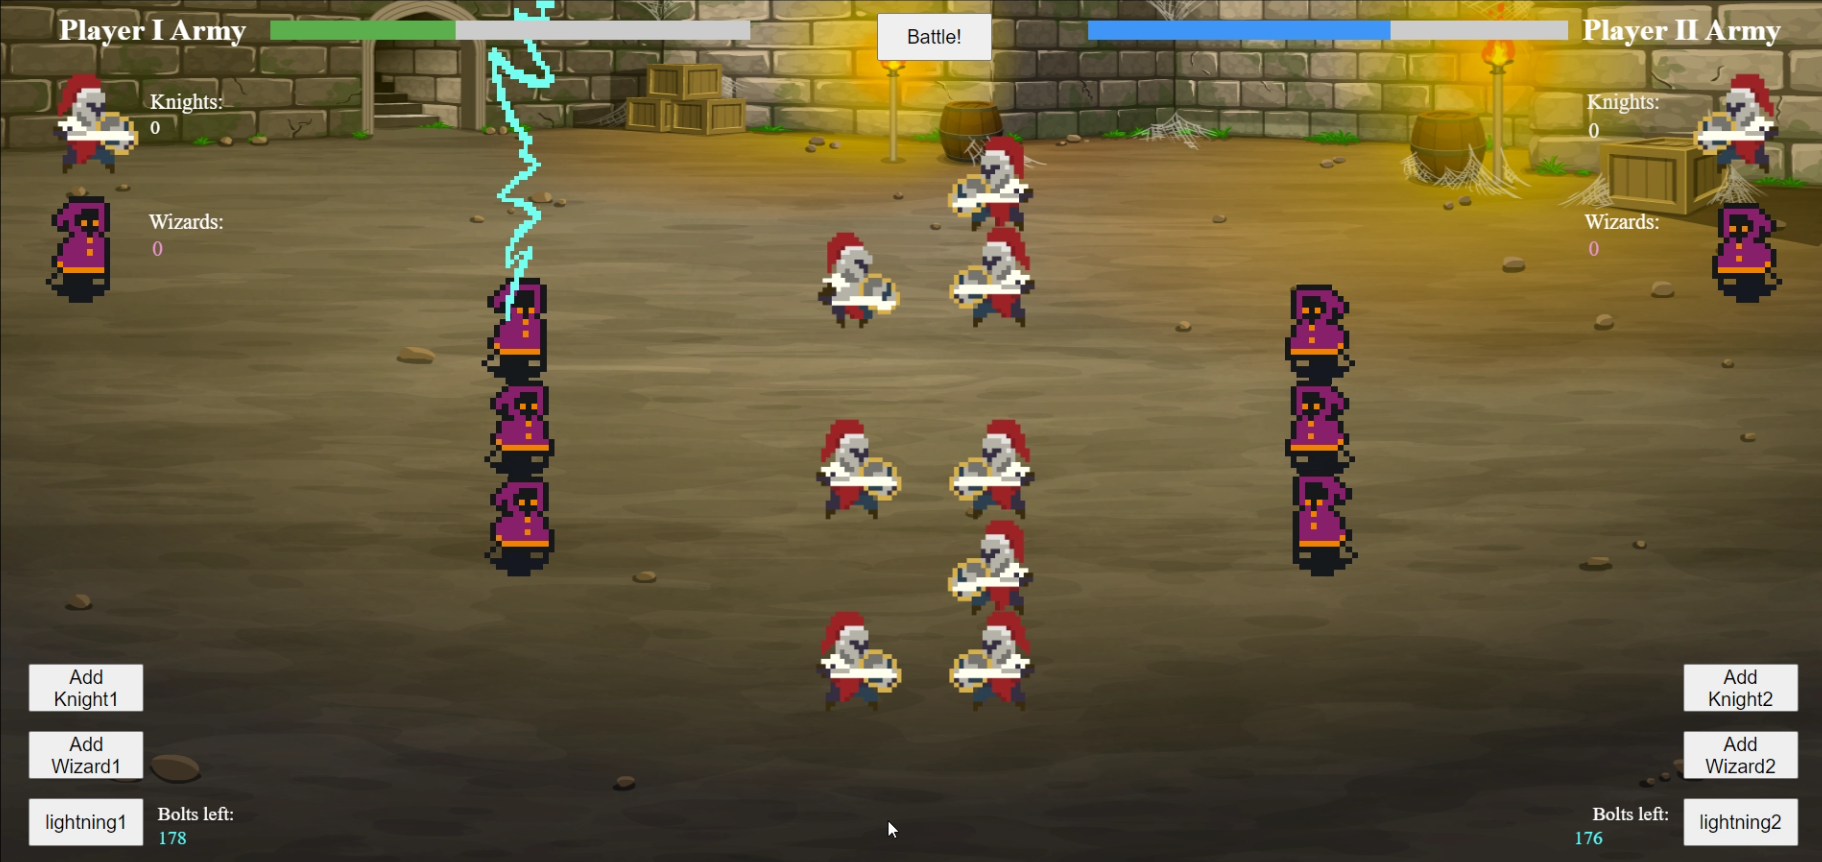
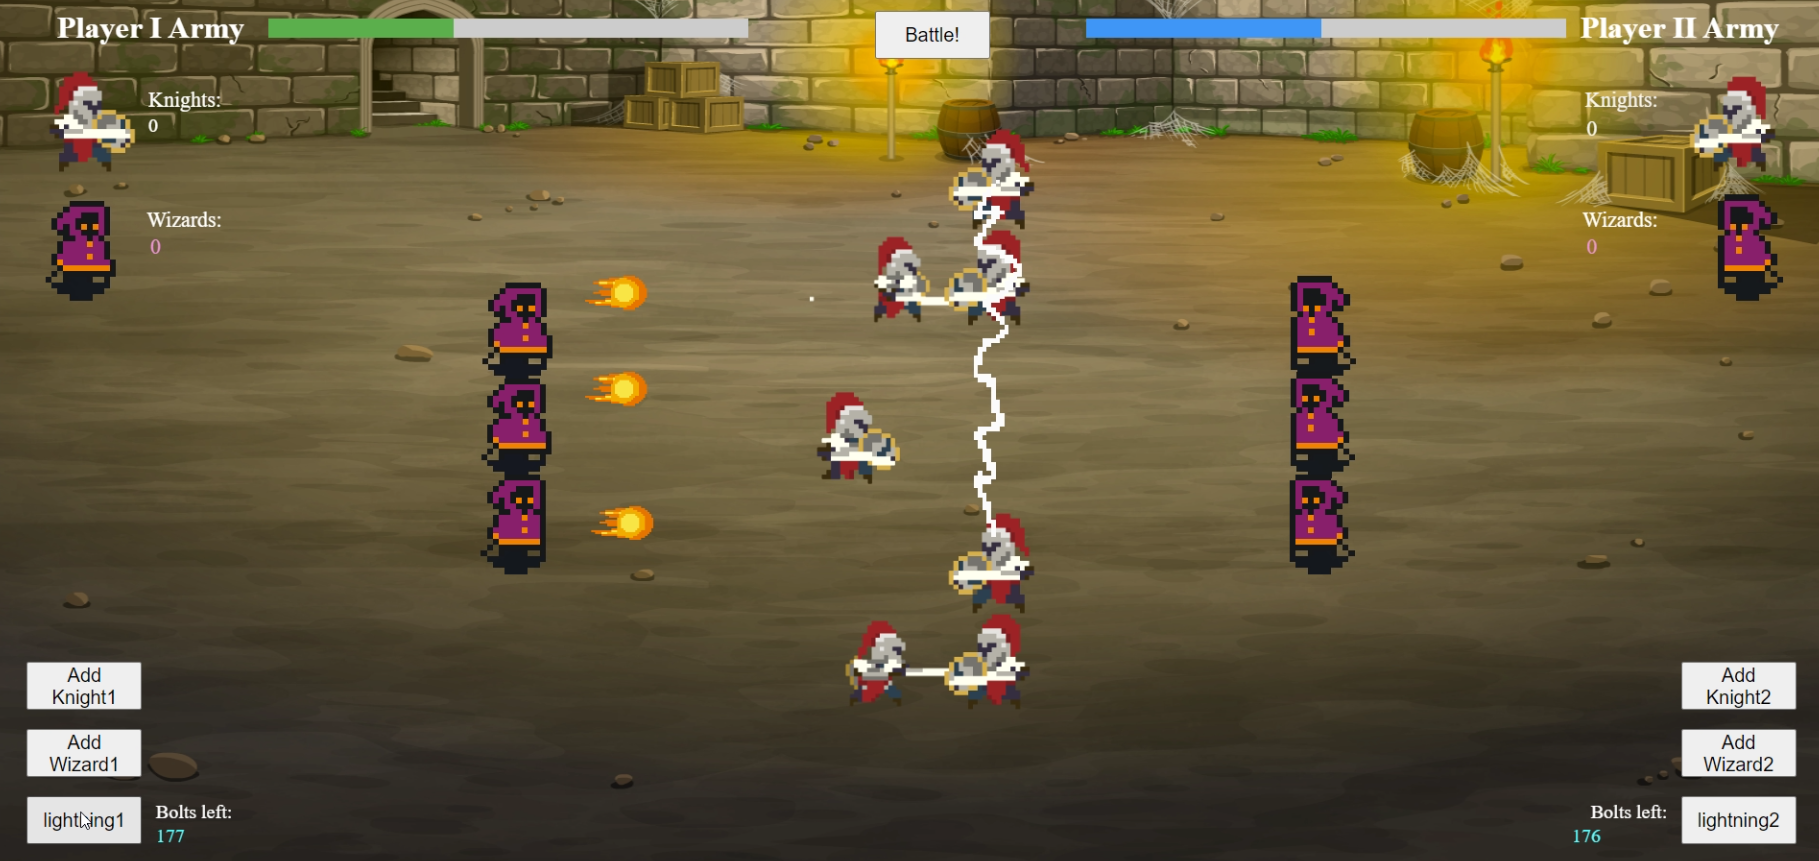
.

diff --git a/frontend/script.js b/frontend/script.js
@@ -497,8 +497,7 @@ const numOfAliveTroops = (troops) => {
 
 const isLinedUpOpponentWizard = (wizard, knights) => knights.some(knight => knight && wizard && knight.position.y === wizard.position.y + 30);
 
-const isLinedUpOpponent = (troop, array) => array.some(knight => knight && troop.position.y === knight.position.y);
-
+const isLinedUpOpponent = (troop, knights) => knights.some(knight => knight && troop.position.y === knight.position.y);
 
 const reArrangeKnights = (battlingKnightsP1, battlingKnightsP2) => {
     let idleKnightsP1 = [];
@@ -506,18 +505,20 @@ const reArrangeKnights = (battlingKnightsP1, battlingKnightsP2) => {
 
     //All idle knights of P1
     for (let i = 0; i < battlingKnightsP1.length; i++) {
-        if (battlingKnightsP1[i] && numOfAliveTroops(battlingKnightsP2) !== 0 && !isDead(battlingKnightsP1[i]) &&
-            !isLinedUpOpponent(battlingKnightsP1[i], battlingKnightsP2)) { //!battlingKnightsP2[i] 
-            idleKnightsP1.push(battlingKnightsP1[i]);
-        } else if (battlingKnightsP1[i] && !isDead(battlingKnightsP1[i]) && numOfAliveTroops(battlingKnightsP2) === 0) {
+        if (battlingKnightsP1[i] && numOfAliveTroops(battlingKnightsP2) !== 0 && !isDead(battlingKnightsP1[i])
+            && !isLinedUpOpponent(battlingKnightsP1[i], battlingKnightsP2)) {
             idleKnightsP1.push(battlingKnightsP1[i]);
         }
+
+        // else if (battlingKnightsP1[i] && !isDead(battlingKnightsP1[i]) && numOfAliveTroops(battlingKnightsP2) === 0) {
+        //     idleKnightsP1.push(battlingKnightsP1[i]);
+        // }
     }
 
     //All idle knights of P2
     for (let i = 0; i < battlingKnightsP2.length; i++) {
-        if (battlingKnightsP2[i] && !isDead(battlingKnightsP2[i]) &&
-            !isLinedUpOpponent(battlingKnightsP2[i], battlingKnightsP1)) { //!battlingKnightsP1[i] 
+        if (battlingKnightsP2[i] && !isDead(battlingKnightsP2[i])
+            && !isLinedUpOpponent(battlingKnightsP2[i], battlingKnightsP1)) { //!battlingKnightsP1[i] 
             idleKnightsP2.push(battlingKnightsP2[i]);
         }
     }
@@ -526,6 +527,7 @@ const reArrangeKnights = (battlingKnightsP1, battlingKnightsP2) => {
     if (idleKnightsP1.length > 0 && idleKnightsP2.length > 0) {
         console.log(`Knights need to be moved`);
         const numKnightsToMove = Math.min(idleKnightsP1.length, idleKnightsP2.length);
+        console.log(numKnightsToMove);
 
         for (let i = 0; i < numKnightsToMove; i++) {
             idleKnightsP1[i].switchSprites('walk');
@@ -537,17 +539,18 @@ const reArrangeKnights = (battlingKnightsP1, battlingKnightsP2) => {
         }
     }
 
-    // else if (firstArrival && numOfAliveTroops(battlingKnightsP2) === 0) {
-    //     for (let i = 0; i < battlingWizardsP2.length; i++) {
-    //         if (battlingKnightsP1[i] && battlingWizardsP2[i] && !isLinedUpOpponentWizard(battlingWizardsP2[i], battlingKnightsP1)) {
-    //             battlingKnightsP1[i].switchSprites('walk');
-    //             battlingKnightsP1[i].update(battlingWizardsP2[i].position.x, battlingWizardsP2[i].position.y + 30);
-    //             if (battlingKnightsP1[i].position.y === battlingWizardsP2[i].position.y + 30) {
-    //                 battlingKnightsP1[i].switchSprites('idle');
-    //             }
-    //         }
-    //     }
-    // }
+    else if (firstArrival && battleInProgress && numOfAliveTroops(battlingKnightsP2) === 0) {
+        for (let i = 0; i < battlingWizardsP2.length; i++) {
+            if (battlingKnightsP1[i] && battlingWizardsP2[i] && !isLinedUpOpponentWizard(battlingWizardsP2[i], battlingKnightsP1)) {
+                battlingKnightsP1[i].switchSprites('walk');
+                battlingKnightsP1[i].update(battlingWizardsP2[i].position.x, battlingWizardsP2[i].position.y + 30);
+                if (battlingKnightsP1[i].position.y === battlingWizardsP2[i].position.y + 30) {
+                    battlingKnightsP1[i].switchSprites('idle');
+                }
+            }
+        }
+    }
+
 
 
 }
@@ -564,8 +567,8 @@ const renderArmy = () => {
         knight = battlingKnightsP1[i];
         if (knight) {
             knight.update(knight.position.x, knight.position.y); //also draws the knight
-            console.log(firstArrival);
-            console.log(knight.framesElapsed);
+            // console.log(firstArrival);
+            // console.log(knight.framesElapsed);
             if (knight.position.x === 845 && knight.framesElapsed === 30) {
                 knight.switchSprites('idle');
                 knight.framesElapsed = 0;
@@ -582,8 +585,8 @@ const renderArmy = () => {
         knight = battlingKnightsP2[i];
 
         if (knight) {
-            console.log(firstArrival);
-            console.log(knight.framesElapsed);
+            // console.log(firstArrival);
+            // console.log(knight.framesElapsed);
 
             knight.update(knight.position.x, knight.position.y);  //also draws the knight
             if (knight.position.x === 975 && knight.framesElapsed === 30) {

diff --git a/README.md b/README.md
@@ -2,8 +2,15 @@
 
 In this turn-based combat game, each player commands an army and deploys a desired number of troops to battle against the opponent's forces.
 
-## 
+# The Game Controls
 
-The game logic is quite simple. Each player has buttons controlling the amount of each type of troops they'd like to send to battle. When both players are done, click the Battle! button at the center of the screen and watch the battlefield.
+The game's controls are quite simple. Each player has 3 buttons:
 
-![Alt Text](../frontend/assets/gamePic1.png)
+-Add Knight - adds a knight to the battling forces.
+-Add Wizard - adds a wizard to the battling forces.
+-Lightning - strikes the enemy forces with lightning bolts, 2 uses each round. 
+
+##
+
+Each player has indicators on each side of the screen, displaying the remaining troops of each type.
+
